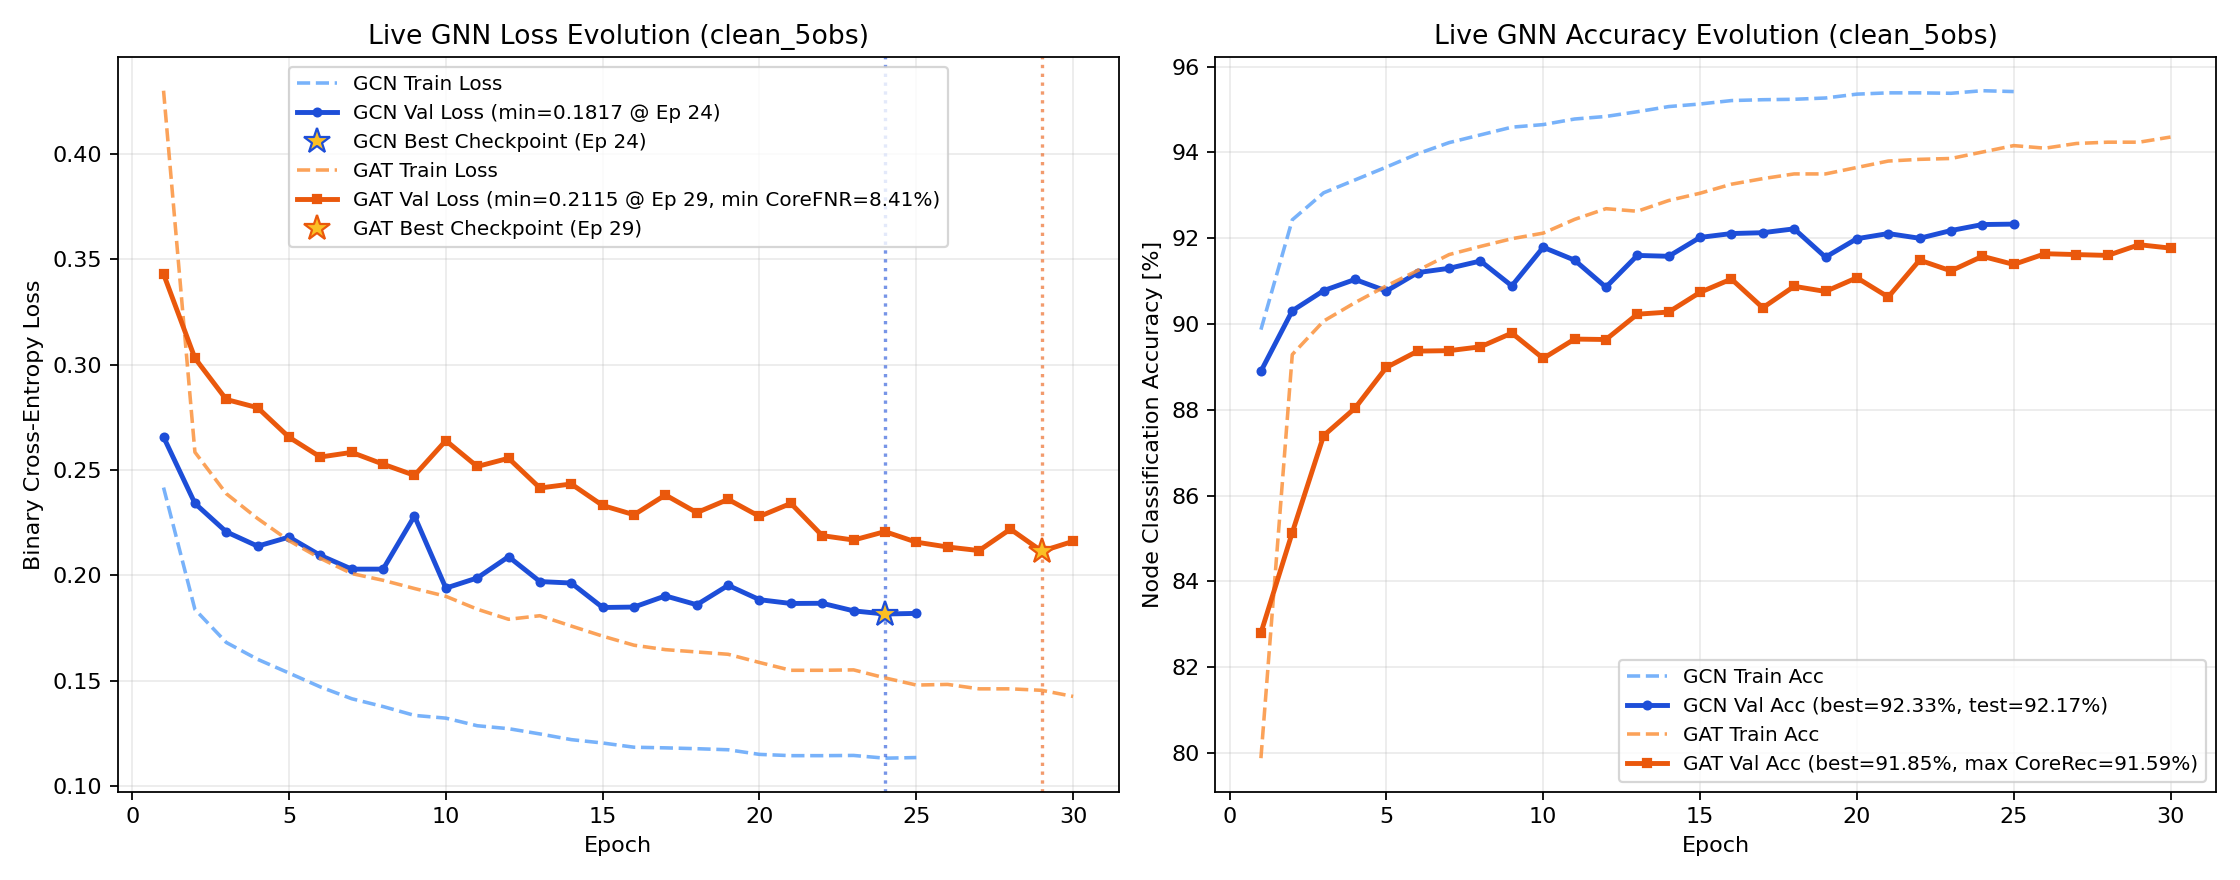
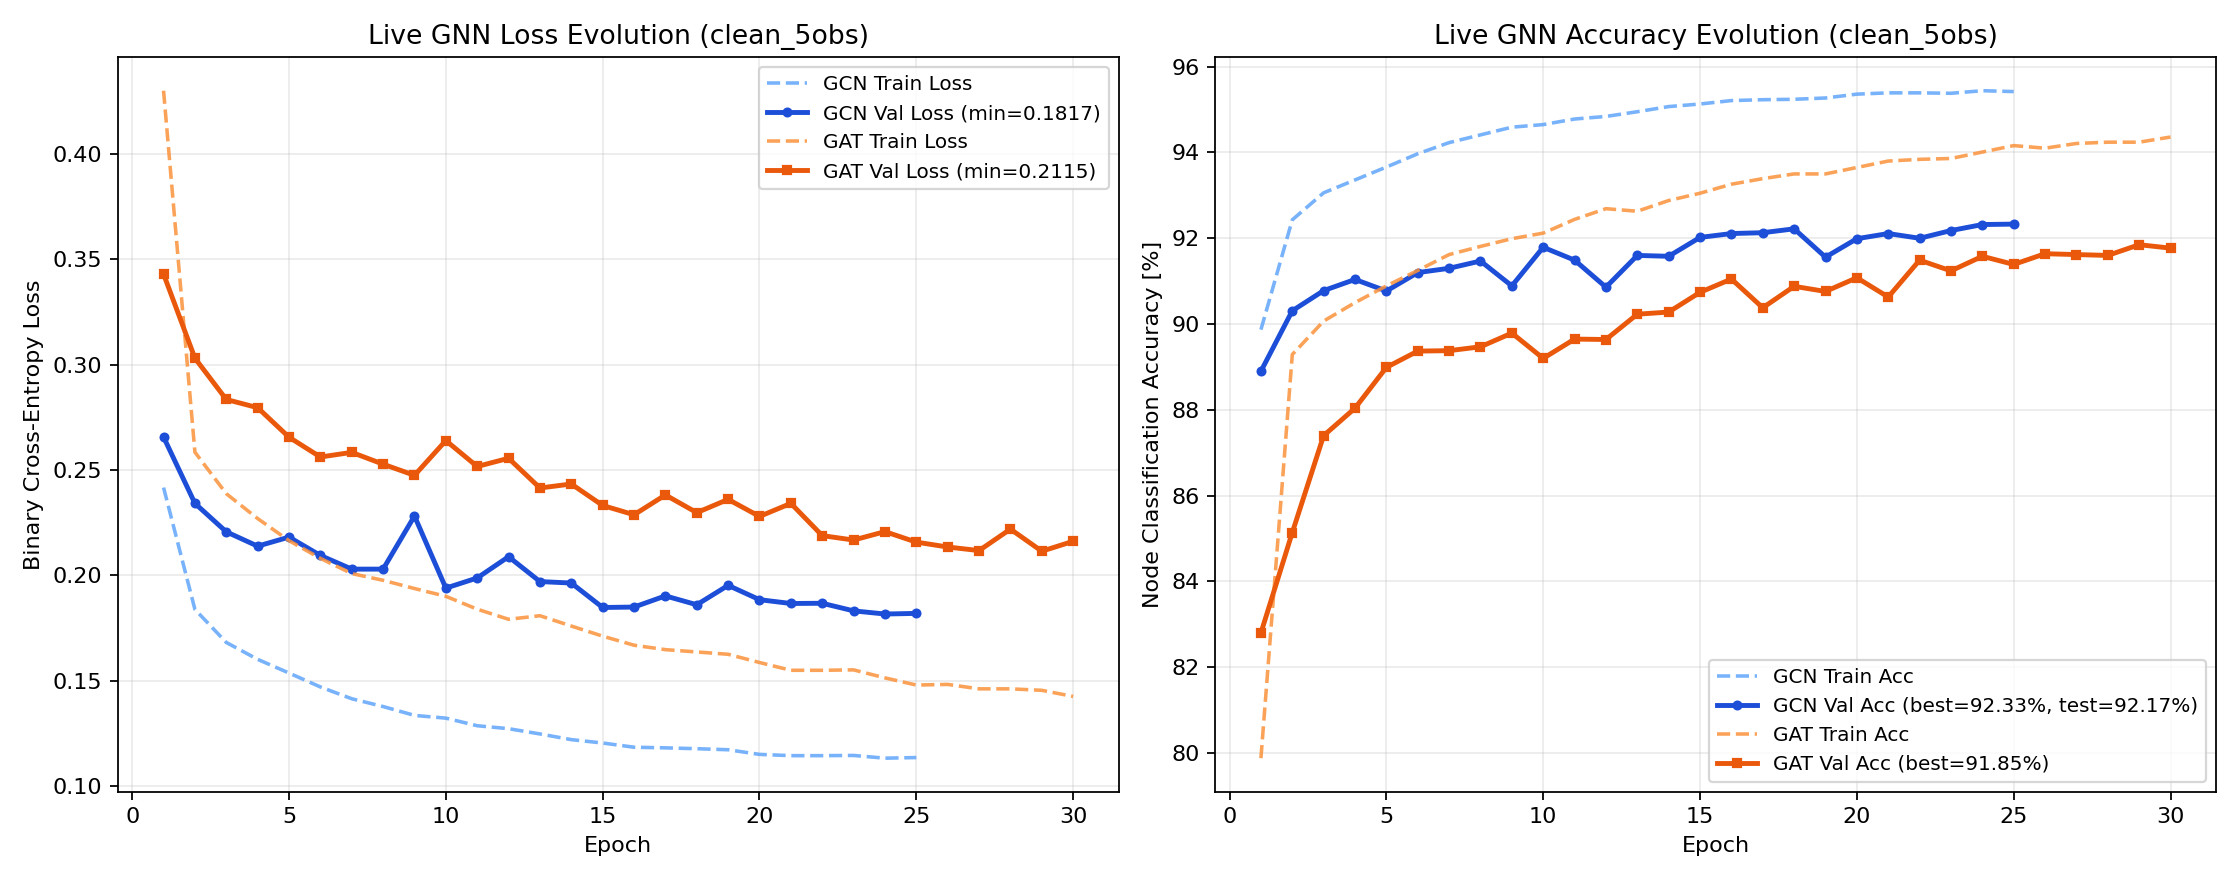
Update Study 2 live status and figures (2026-11-13 13:55)

diff --git a/LIVE_STATUS.md b/LIVE_STATUS.md
@@ -1,16 +1,15 @@
 # Live Pipeline Status on Jed
 
 ```text
-[2026-11-13 13:54:26] Study 2 Pipeline Status on Jed
+[2026-11-13 13:55:56] Study 2 Pipeline Status on Jed
 - Step 1 (Plummer ICs): 81 / 81 ready
 - Step 2 (SWIFT Runs): 81 / 81 completed (101 snapshots)
 - Step 3 (Observables): Labels=81/81 | Clean=81/81 | GaiaNoisy=81/81
 - Step 4 (5D Graphs): Clean=81/81 | GaiaNoisy=81/81
 - Step 5/6 Live GNN Training Progress:
-  * clean_5obs/training_metrics_gat_clean.log: Ep 030 | Train 0.1426 (94.36%) | Val 0.2162 (91.77%, Best=91.85%) | CoreFNR: 13.45% (min=8.41%) | Test=In progress
+  * clean_5obs/training_metrics_gat_clean.log: Ep 030 | Train 0.1426 (94.36%) | Val 0.2162 (91.77%, Best=91.85%) | Test=In progress
   * clean_5obs/training_metrics_gcn_clean.log: Ep 025 | Train 0.1136 (95.42%) | Val 0.1820 (92.33%, Best=92.33%) | Test=92.17%
   * legacy/clean_5obs_static_5rot/training_metrics_gcn_clean.log: Ep 025 | Train 0.1136 (95.42%) | Val 0.1820 (92.33%, Best=92.33%) | Test=92.17%
-- Saved Model Checkpoints (.pth): 8 mirrored in GNN-jed/trained_models/study2/weights/
 
 SLURM Queue:
 JOBID  PARTITION                   NAME   ST       TIME  NODES NODELIST(REASON)
@@ -20,29 +19,16 @@ JOBID  PARTITION                   NAME   ST       TIME  NODES NODELIST(REASON)
 41146835_[0-4%   academic      Study2_Step6_4Obs   PD       0:00      2 (Dependency)
       41185010   academic Study2V2_Step4_BuildGr   PD       0:00      1 (Dependency)
 41185009_[0-80   academic Study2V2_Step3_Extract   PD       0:00      1 (Dependency)
-      41146834   academic   Study2_Step5_Train81    R   23:09:02      2 jst[317,320]
+      41146834   academic   Study2_Step5_Train81    R   23:10:12      2 jst[317,320]
 ```
 
 ## Live Neural Network Training Metrics
 
-| Experiment | Architecture | Latest Epoch | Train Loss | Train Acc | Val Loss | Val Acc | Best Val Acc | Core FNR | Test Acc | Test F1 |
-| :--- | :---: | :---: | :---: | :---: | :---: | :---: | :---: | :---: | :---: | :---: |
-| `clean_5obs` | **GAT** | 30 | 0.1426 | 94.36% | 0.2162 | 91.77% | **91.85%** | 8.41% (val min) | **In progress** | - |
-| `clean_5obs` | **GCN** | 25 | 0.1136 | 95.42% | 0.1820 | 92.33% | **92.33%** | - | **92.17%** | 0.8886 |
-| `clean_5obs_static_5rot` | **GCN** | 25 | 0.1136 | 95.42% | 0.1820 | 92.33% | **92.33%** | - | **92.17%** | 0.8886 |
-
-## Saved Model Weights (`.pth` Checkpoints)
-
-| Checkpoint | Size | Experiment Path | Central Archive Mirror |
-| :--- | :---: | :--- | :--- |
-| `best_gat_clean.pth` | 361.2 KB | `GNN-jed/trained_models/study2/clean_5obs/best_gat_clean.pth` | `GNN-jed/trained_models/study2/weights/best_gat_clean.pth` |
-| `best_gat_clean_ep18_backup.pth` | 361.2 KB | `GNN-jed/trained_models/study2/clean_5obs/best_gat_clean_ep18_backup.pth` | `GNN-jed/trained_models/study2/weights/best_gat_clean_ep18_backup.pth` |
-| `best_gcn_clean.pth` | 120.0 KB | `GNN-jed/trained_models/study2/clean_5obs/best_gcn_clean.pth` | `GNN-jed/trained_models/study2/weights/best_gcn_clean.pth` |
-| `best_gat_clean_ep18_backup.pth` | 361.2 KB | `GNN-jed/trained_models/study2/legacy/clean_5obs_static_5rot/best_gat_clean_ep18_backup.pth` | `GNN-jed/trained_models/study2/weights/best_gat_clean_ep18_backup.pth` |
-| `best_gcn_clean.pth` | 120.0 KB | `GNN-jed/trained_models/study2/legacy/clean_5obs_static_5rot/best_gcn_clean.pth` | `GNN-jed/trained_models/study2/weights/best_gcn_clean.pth` |
-| `best_gat_clean.pth` | 361.2 KB | `GNN-jed/trained_models/study2/legacy/weights/best_gat_clean.pth` | `GNN-jed/trained_models/study2/weights/best_gat_clean.pth` |
-| `best_gat_clean_ep18_backup.pth` | 361.2 KB | `GNN-jed/trained_models/study2/legacy/weights/best_gat_clean_ep18_backup.pth` | `GNN-jed/trained_models/study2/weights/best_gat_clean_ep18_backup.pth` |
-| `best_gcn_clean.pth` | 120.0 KB | `GNN-jed/trained_models/study2/legacy/weights/best_gcn_clean.pth` | `GNN-jed/trained_models/study2/weights/best_gcn_clean.pth` |
+| Experiment | Architecture | Latest Epoch | Train Loss | Train Acc | Val Loss | Val Acc | Best Val Acc | Test Acc | Test F1 |
+| :--- | :---: | :---: | :---: | :---: | :---: | :---: | :---: | :---: | :---: |
+| `clean_5obs` | **GAT** | 30 | 0.1426 | 94.36% | 0.2162 | 91.77% | **91.85%** | **In progress** | - |
+| `clean_5obs` | **GCN** | 25 | 0.1136 | 95.42% | 0.1820 | 92.33% | **92.33%** | **92.17%** | 0.8886 |
+| `clean_5obs_static_5rot` | **GCN** | 25 | 0.1136 | 95.42% | 0.1820 | 92.33% | **92.33%** | **92.17%** | 0.8886 |
 
 ## Real-Time GNN Learning Curves (Loss & Accuracy Evolution)
 
